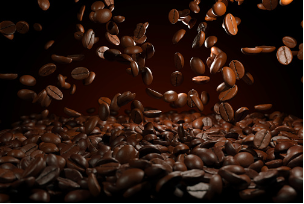
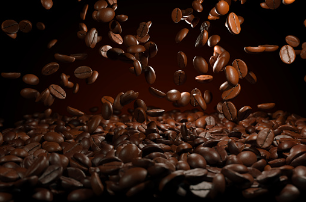
contact

diff --git a/contact.html b/contact.html
@@ -1,0 +1,96 @@
+<!DOCTYPE html>
+<html>
+<head>
+	<title> Cafe Elite</title>
+<link href="https://cdn.jsdelivr.net/npm/bootstrap@5.1.1/dist/css/bootstrap.min.css" rel="stylesheet">
+<link href="https://fonts.googleapis.com/css2?family=Manrope:wght@500;700&family=Passion+One&display=swap" rel="stylesheet"
+	<meta name="viewport" content="width=device-width" initial-scale="1.0">
+	  <script src="https://cdn.jsdelivr.net/npm/bootstrap@5.1.1/dist/js/bootstrap.bundle.min.js"></script>
+
+<link rel="stylesheet" href="https://cdn.jsdelivr.net/npm/bootstrap-icons@1.7.2/font/bootstrap-icons.css">
+
+<link href="restaurant.css" rel="stylesheet">
+
+</head>
+<body>
+	<header>
+		<nav class="navbar navbar-dark navbar-expand-lg bg-dark">
+			<div class="container">
+			   <div class="row" >
+			   	<div class="col-lg-4 col-sm-6">
+				<div class="navbar-brand d-none d-md-block d-lg-block">
+					<a href=""><img src="restaurant-logo.png" class=" img-responsive " id="logo"></a>
+				</div>
+				<div class="navbar-brand d-block d-md-none d-lg-none">
+				<h1><b> Cafe Elite</b></h1>
+				</div>
+			</div>
+			<div class="col-lg-8 col-sm-6 ">
+			
+			<button class="navbar-toggler d-block d-lg-none float-end" type="button" data-bs-toggle="collapse" data-bs-target="#navigation">
+        <span class="navbar-toggler-icon"></span>
+    </button>
+    <div class="collapse navbar-brand float-end navbar-collapse " id="navigation">
+
+      <ul class="navbar-nav text-center ">
+						<li class="nav-item">
+							<a href="restaurant.html" class="nav-link bi bi-house-fill "> Home</a>
+						</li>
+						<li class="nav-item">
+							<a href="menu.html" class="nav-link bi bi-list" > Menu</a>
+						</li>
+						<li class="nav-item">
+							<a href="order.html" class="nav-link bi bi-cart"> Order Online</a>
+						</li>
+						<li class="nav-item">
+							<a href="#" class="nav-link bi bi-telephone-fill"> Contact</a>
+						</li>
+						<li class="nav-item">
+							<a href="#" class="nav-link bi bi-images"> Gallery</a>
+						</li>
+
+					</ul>
+	</div>
+		</div>
+	</nav>
+	</header>
+    <div class="container-fluid" id="contact">
+        <div class="row">
+            <div class="col-lg-6 col-sm-6" id="content">
+                
+            </div>
+            <div id="text"><h1>Stay in Touch!</h1>
+                <h4>We love to hear from you </h4></div>
+            <div class="col-lg-6 col-sm-6">
+                <img src="contact.PNG" alt="contact">
+            </div>
+        </div>
+    </div>
+
+
+    
+	<footer class="bg-dark">
+		<ul id="footerid" class="nav navbar-brand justify-content-center border-bottom">
+			<li class="nav-item">
+				<a href="#" class="nav-link text-light bi bi-house-fill"> Home</a>
+			</li>
+			<li class="nav-item">
+				<a href="#" class="nav-link text-light  bi bi-people-fill" > About</a>
+			</li>
+			<li class="nav-item">
+				<a href="#" class="nav-link text-light  bi bi-geo-alt"> location</a>
+			</li>
+			<li class="nav-item">
+				<a href="#" class="nav-link text-light  bi bi-telephone-fill"> Contact</a>
+			</li>
+		</ul>
+		<p class="text-left text-light">© 2021 Company, Inc
+			<a href="https://twitter.com/" class="text-light"><span class="bi bi-twitter "></a>
+			<a href="https://instagram.com/" class="text-light"><span class="bi bi-instagram "></a>
+			<a href="https://facebook.com/" class="text-light"><span class="bi bi-facebook "></a>
+		</p>
+
+	</footer>
+
+</body>
+</html>

diff --git a/order.html b/order.html
@@ -1,0 +1,88 @@
+<!DOCTYPE html>
+<html>
+<head>
+	<title> Cafe Elite</title>
+<link href="https://cdn.jsdelivr.net/npm/bootstrap@5.1.1/dist/css/bootstrap.min.css" rel="stylesheet">
+<link href="https://fonts.googleapis.com/css2?family=Manrope:wght@500;700&family=Passion+One&display=swap" rel="stylesheet"
+	<meta name="viewport" content="width=device-width" initial-scale="1.0">
+	  <script src="https://cdn.jsdelivr.net/npm/bootstrap@5.1.1/dist/js/bootstrap.bundle.min.js"></script>
+
+<link rel="stylesheet" href="https://cdn.jsdelivr.net/npm/bootstrap-icons@1.7.2/font/bootstrap-icons.css">
+
+<link href="restaurant.css" rel="stylesheet">
+
+</head>
+<body>
+	<header>
+		<nav class="navbar navbar-dark navbar-expand-lg bg-dark">
+			<div class="container">
+			   <div class="row" >
+			   	<div class="col-lg-4 col-sm-6">
+				<div class="navbar-brand d-none d-md-block d-lg-block">
+					<a href=""><img src="restaurant-logo.png" class=" img-responsive " id="logo"></a>
+				</div>
+				<div class="navbar-brand d-block d-md-none d-lg-none">
+				<h1><b> Cafe Elite</b></h1>
+				</div>
+			</div>
+			<div class="col-lg-8 col-sm-6 ">
+			
+			<button class="navbar-toggler d-block d-lg-none float-end" type="button" data-bs-toggle="collapse" data-bs-target="#navigation">
+        <span class="navbar-toggler-icon"></span>
+    </button>
+    <div class="collapse navbar-brand float-end navbar-collapse " id="navigation">
+
+      <ul class="navbar-nav text-center ">
+						<li class="nav-item">
+							<a href="restaurant.html" class="nav-link bi bi-house-fill "> Home</a>
+						</li>
+						<li class="nav-item">
+							<a href="menu.html" class="nav-link bi bi-list" > Menu</a>
+						</li>
+						<li class="nav-item">
+							<a href="#" class="nav-link bi bi-cart"> Order Online</a>
+						</li>
+						<li class="nav-item">
+							<a href="contact.html" class="nav-link bi bi-telephone-fill"> Contact</a>
+						</li>
+						<li class="nav-item">
+							<a href="#" class="nav-link bi bi-images"> Gallery</a>
+						</li>
+
+					</ul>
+	</div>
+		</div>
+	</nav>
+	</header>
+    <div class="container-fluid" id="order">
+       <h1>Place your order</h1>
+       <h3>Fullfill your Cravings </h3>
+       
+       
+
+    </div>
+
+    <footer class="bg-dark">
+		<ul id="footerid" class="nav navbar-brand justify-content-center border-bottom">
+			<li class="nav-item">
+				<a href="#" class="nav-link text-light bi bi-house-fill"> Home</a>
+			</li>
+			<li class="nav-item">
+				<a href="#" class="nav-link text-light  bi bi-people-fill" > About</a>
+			</li>
+			<li class="nav-item">
+				<a href="#" class="nav-link text-light  bi bi-geo-alt"> location</a>
+			</li>
+			<li class="nav-item">
+				<a href="#" class="nav-link text-light  bi bi-telephone-fill"> Contact</a>
+			</li>
+		</ul>
+		<p class="text-left text-light">© 2021 Company, Inc
+			<a href="https://twitter.com/" class="text-light"><span class="bi bi-twitter "></a>
+			<a href="https://instagram.com/" class="text-light"><span class="bi bi-instagram "></a>
+			<a href="https://facebook.com/" class="text-light"><span class="bi bi-facebook "></a>
+		</p>
+
+	</footer>
+	</body>
+</html>

diff --git a/restaurant.css b/restaurant.css
@@ -286,7 +286,7 @@ footer p a span
 }
 #menu-carousel
 {
-	background-image: url("Capture.PNG");
+	background-image: url("https://media.istockphoto.com/photos/falling-roasted-coffee-beans-on-brown-background-picture-id1328567022?b=1&k=20&m=1328567022&s=170667a&w=0&h=Ih9PSrM0oZmeD9y3EnUbn0ygD9Tk9oAuZaUIr5pydvc=");
 	z-index: 2;
 
 	/* Set a specific height */
@@ -372,3 +372,36 @@ footer p a span
 	transform: rotate(0deg);
 	transition: .5s ease;
 }
+
+/* ORDER PAGE */
+#order{
+	background-image: url("https://media.istockphoto.com/photos/falling-roasted-coffee-beans-on-brown-background-picture-id1328567022?b=1&k=20&m=1328567022&s=170667a&w=0&h=Ih9PSrM0oZmeD9y3EnUbn0ygD9Tk9oAuZaUIr5pydvc=");
+	min-height: 500px;
+	background-repeat: no-repeat ;
+	background-size: cover;
+	background-position: center;
+	background-attachment: fixed;
+	color: white;
+	font-family: 'Cuprum', sans-serif;
+	
+}
+#contact{
+	min-height: 500px;
+}
+#contact img{
+	height: 500px;
+}
+#contact #content{
+	padding: 200px;
+	background-color: #b37924;
+	transform: rotate(-24deg);
+	z-index: -1;
+}
+#contact #text{
+	position: absolute;
+	bottom: 140px;
+	left: 230px;
+}
+
+
+

diff --git a/menu.html b/menu.html
@@ -40,10 +40,10 @@
 							<a href="menu.html" class="nav-link bi bi-list" > Menu</a>
 						</li>
 						<li class="nav-item">
-							<a href="#" class="nav-link bi bi-cart"> Order Online</a>
+							<a href="order.html" class="nav-link bi bi-cart"> Order Online</a>
 						</li>
 						<li class="nav-item">
-							<a href="#" class="nav-link bi bi-telephone-fill"> Contact</a>
+							<a href="contact.html" class="nav-link bi bi-telephone-fill"> Contact</a>
 						</li>
 						<li class="nav-item">
 							<a href="#" class="nav-link bi bi-images"> Gallery</a>

diff --git a/restaurant.html b/restaurant.html
@@ -43,10 +43,10 @@
 							<a href="menu.html" class="nav-link bi bi-list" > Menu</a>
 						</li>
 						<li class="nav-item">
-							<a href="#" class="nav-link bi bi-cart"> Order Online</a>
+							<a href="order.html" class="nav-link bi bi-cart"> Order Online</a>
 						</li>
 						<li class="nav-item">
-							<a href="#" class="nav-link bi bi-telephone-fill"> Contact</a>
+							<a href="contact.html" class="nav-link bi bi-telephone-fill"> Contact</a>
 						</li>
 						<li class="nav-item">
 							<a href="#" class="nav-link bi bi-images"> Gallery</a>
